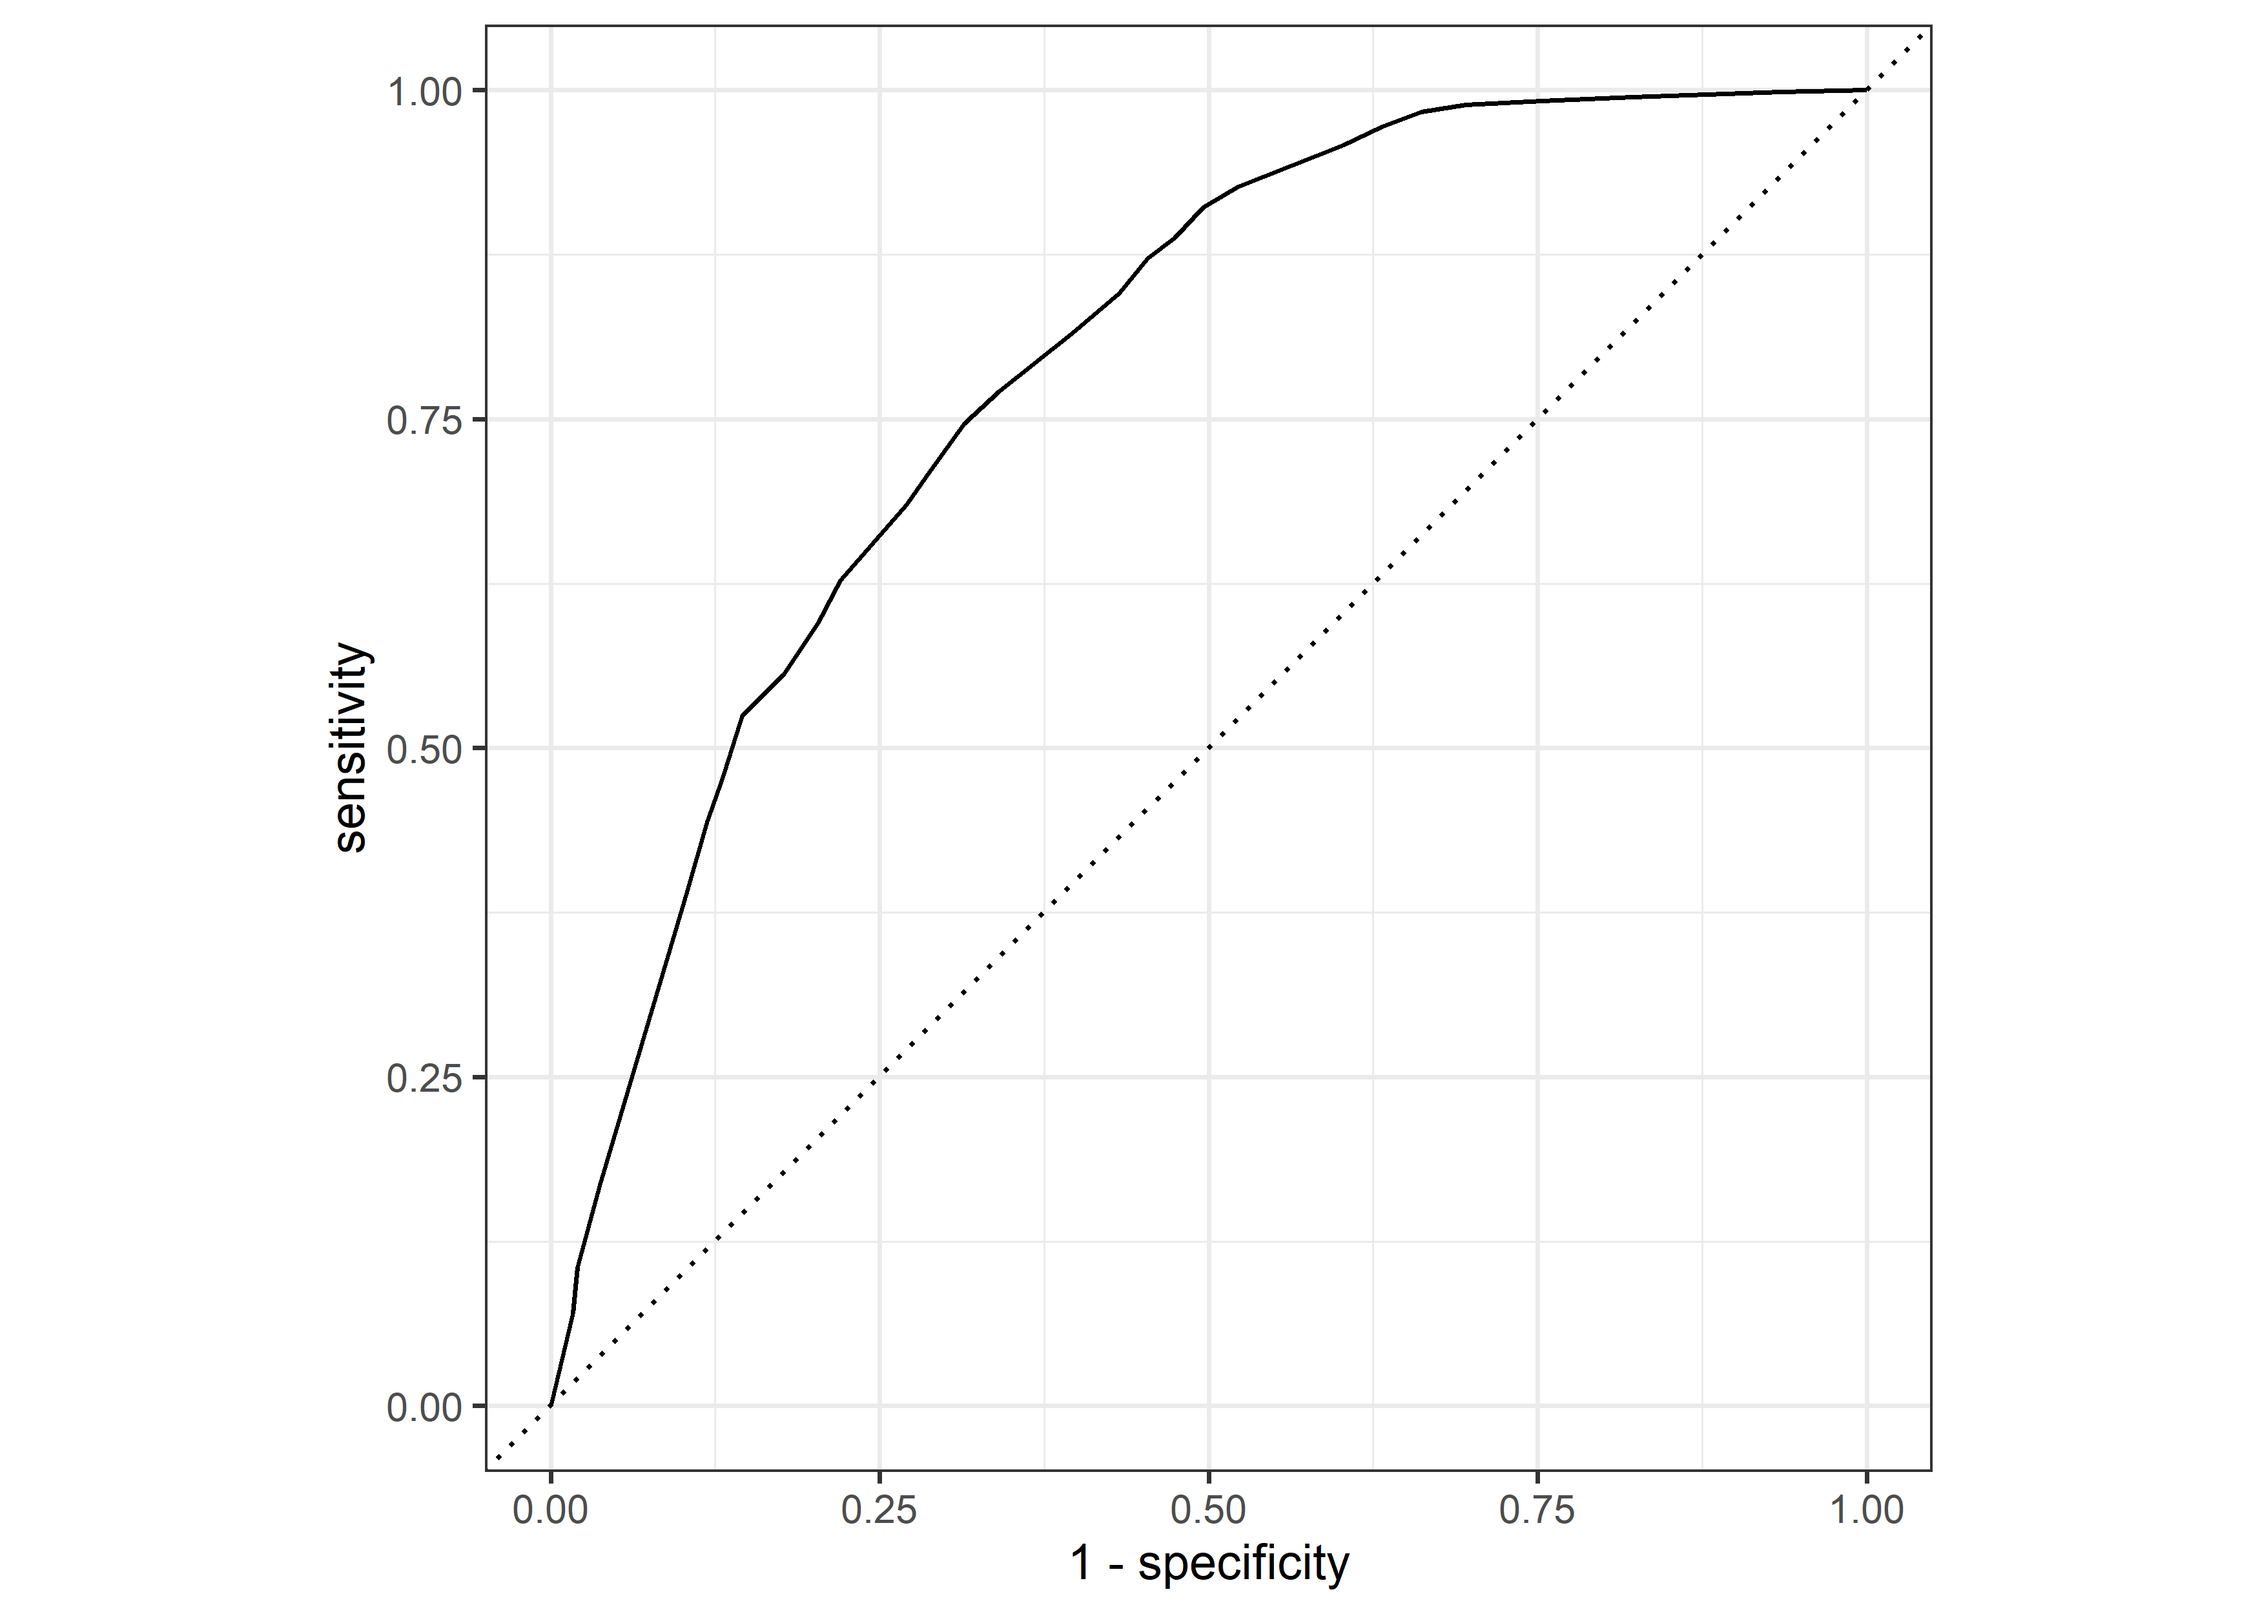
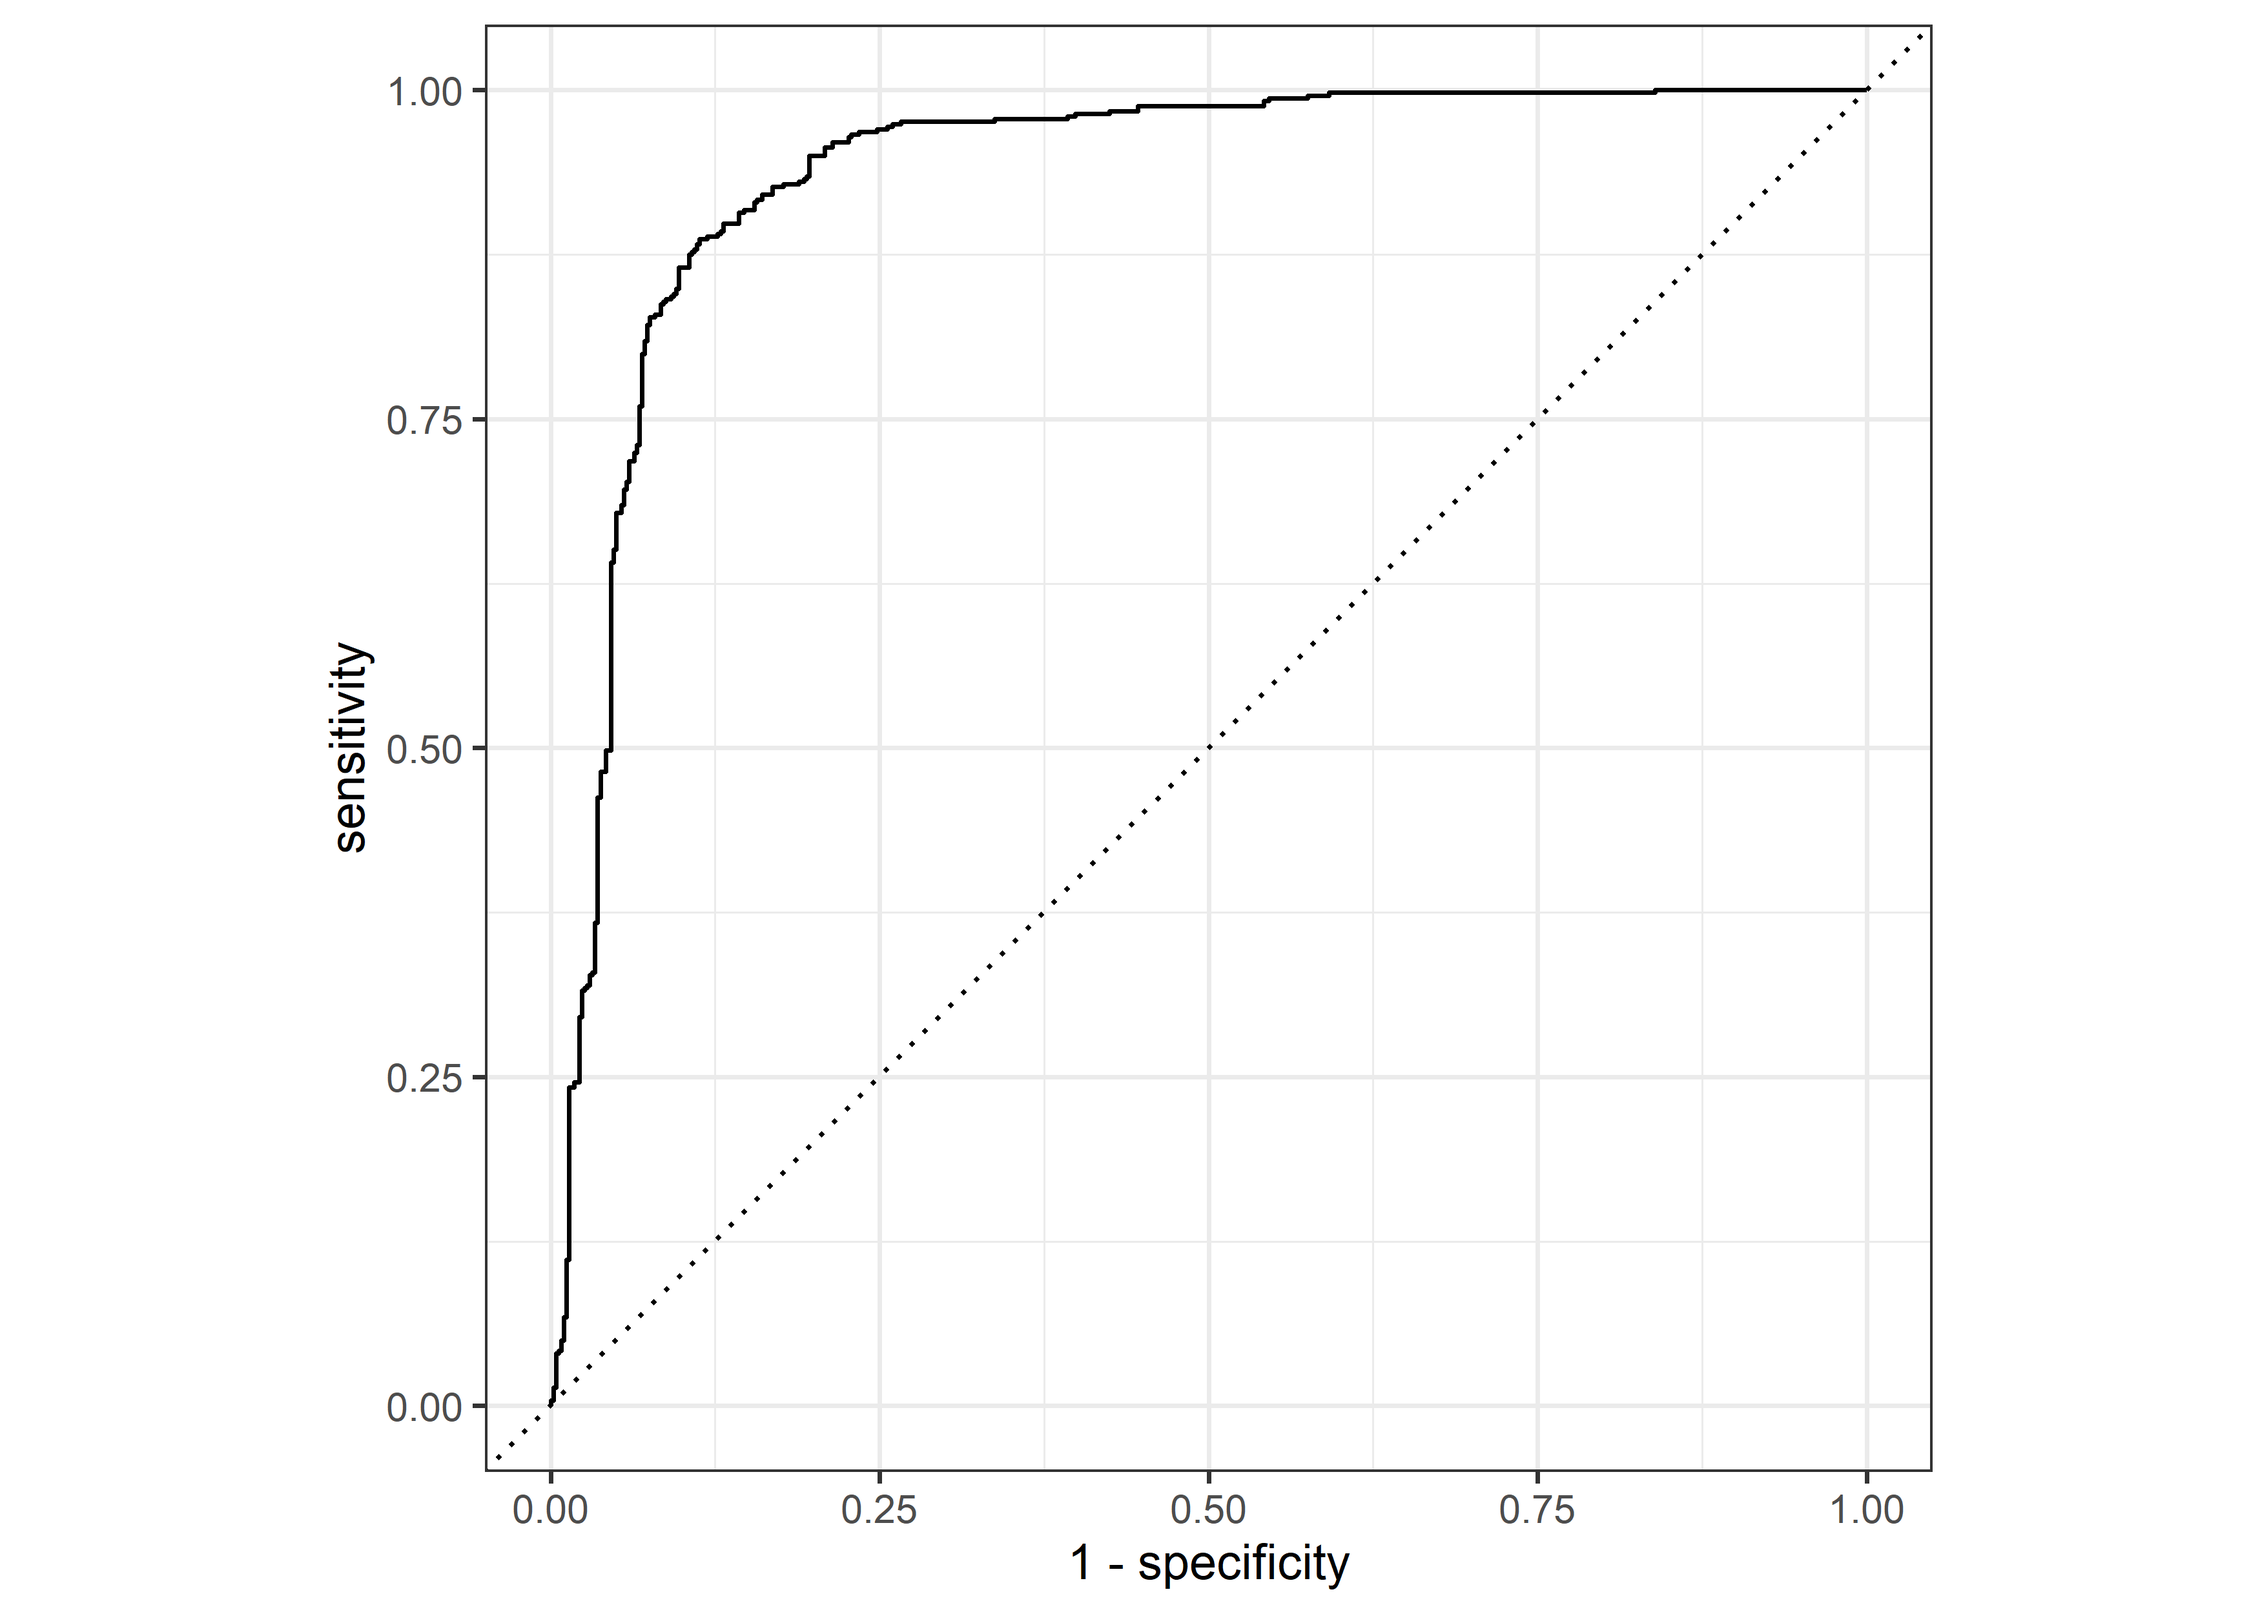
upgraded model, 0.77 roc auc to 0.93

diff --git a/09-13-22/Bigfoot.md b/09-13-22/Bigfoot.md
@@ -173,17 +173,15 @@ library(tidymodels)
     ## * Learn how to get started at https://www.tidymodels.org/start/
 
 ``` r
+library(textrecipes)
 set.seed(123)
 
-bigfoot_split <- initial_split(bigfoot %>% 
-                                  filter(classification != "Class C",!is.na(title)) %>%
-                                  mutate(title = str_remove_all(title, ".*\\:")) %>%
-                                  unnest_tokens(title, title) %>% 
-                                  anti_join(stop_words, by = c("title" = "word")) %>% 
-                                  select(class = classification, title) %>% 
-                                  mutate(class = as.factor(class)) %>% 
-                                  filter(fct_lump(title, prop = 0.005) != "Other"),
-                                strata = class)
+bigfoot_split <- initial_split(bigfoot %>%
+                                 rename(class = classification) %>% 
+                                 filter(class != "Class C", !is.na(title)) %>%
+                                 mutate(title = str_remove_all(title, ".*\\:"),
+                                        class = as.factor(class)),
+                               strata = class)
 ```
 
 ## Fitting
@@ -191,15 +189,15 @@ bigfoot_split <- initial_split(bigfoot %>%
 ``` r
 glm_workflow <- 
   recipe(formula = class ~ title, data = training(bigfoot_split)) %>% 
-  step_novel(all_nominal_predictors()) %>% 
-  step_dummy(all_nominal_predictors()) %>% 
+  step_tokenize(title) %>%
+  step_stopwords(title, custom_stopword_source = stop_words) %>% 
+  step_tokenfilter(title, max_tokens = 1e2) %>% 
+  step_tfidf(title) %>% 
   workflow(logistic_reg(mode = "classification", engine = "glm"))
 
 
 glm_fit <- glm_workflow %>% last_fit(bigfoot_split)
 ```
-
-    ## ! train/test split: preprocessor 1/1, model 1/1 (predictions): prediction from a rank-defici...
 
 ## Metrics
 
@@ -211,8 +209,8 @@ glm_fit %>%
     ## # A tibble: 2 x 4
     ##   .metric  .estimator .estimate .config             
     ##   <chr>    <chr>          <dbl> <chr>               
-    ## 1 accuracy binary         0.718 Preprocessor1_Model1
-    ## 2 roc_auc  binary         0.792 Preprocessor1_Model1
+    ## 1 accuracy binary         0.879 Preprocessor1_Model1
+    ## 2 roc_auc  binary         0.937 Preprocessor1_Model1
 
 ``` r
 glm_fit %>% 
@@ -228,10 +226,11 @@ glm_fit %>%
   extract_fit_parsnip() %>% 
   broom::tidy() %>% 
   filter(p.value < 0.05 & term != "(Intercept)") %>% 
-  mutate(term = str_remove(term, "title_")) %>%
-  ggplot(aes(abs(estimate), fct_reorder(term, abs(estimate)), fill = ifelse(estimate > 0, "A", "B"))) + geom_col(color = "black") +
+  mutate(term = str_remove(term, "tfidf_title_")) %>% 
+  slice_max(abs(estimate), n = 20) %>% 
+  ggplot(aes(abs(estimate), fct_reorder(term, abs(estimate)), fill = ifelse(estimate < 0, "A", "B"))) + geom_col(color = "black") +
   scale_fill_discrete(direction = -1) +
-  labs(fill = "Class", y = "Words", title = str_to_title("Importance words in predicting class"))
+  labs(fill = "Class", y = "", title = str_to_title("Importance of words in predicting class"))
 ```
 
 ![](Bigfoot_files/figure-gfm/unnamed-chunk-10-1.png)<!-- -->
